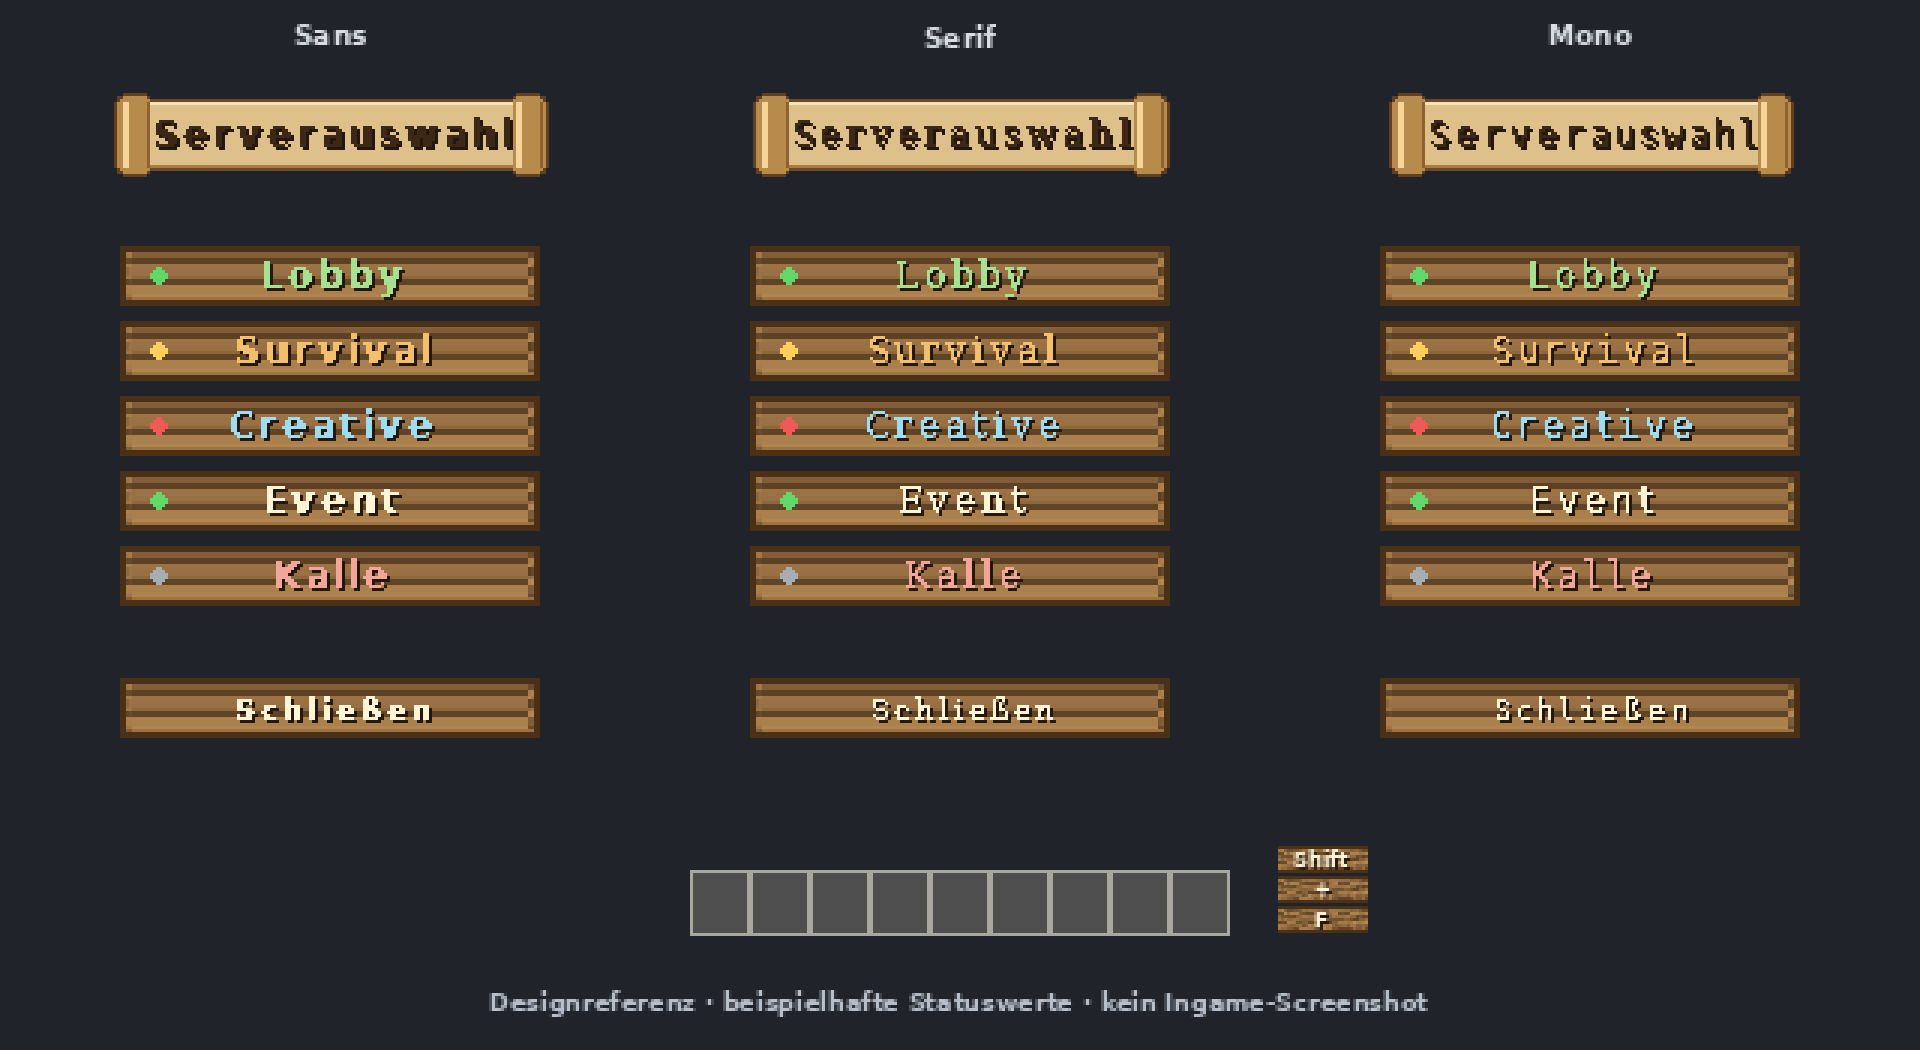
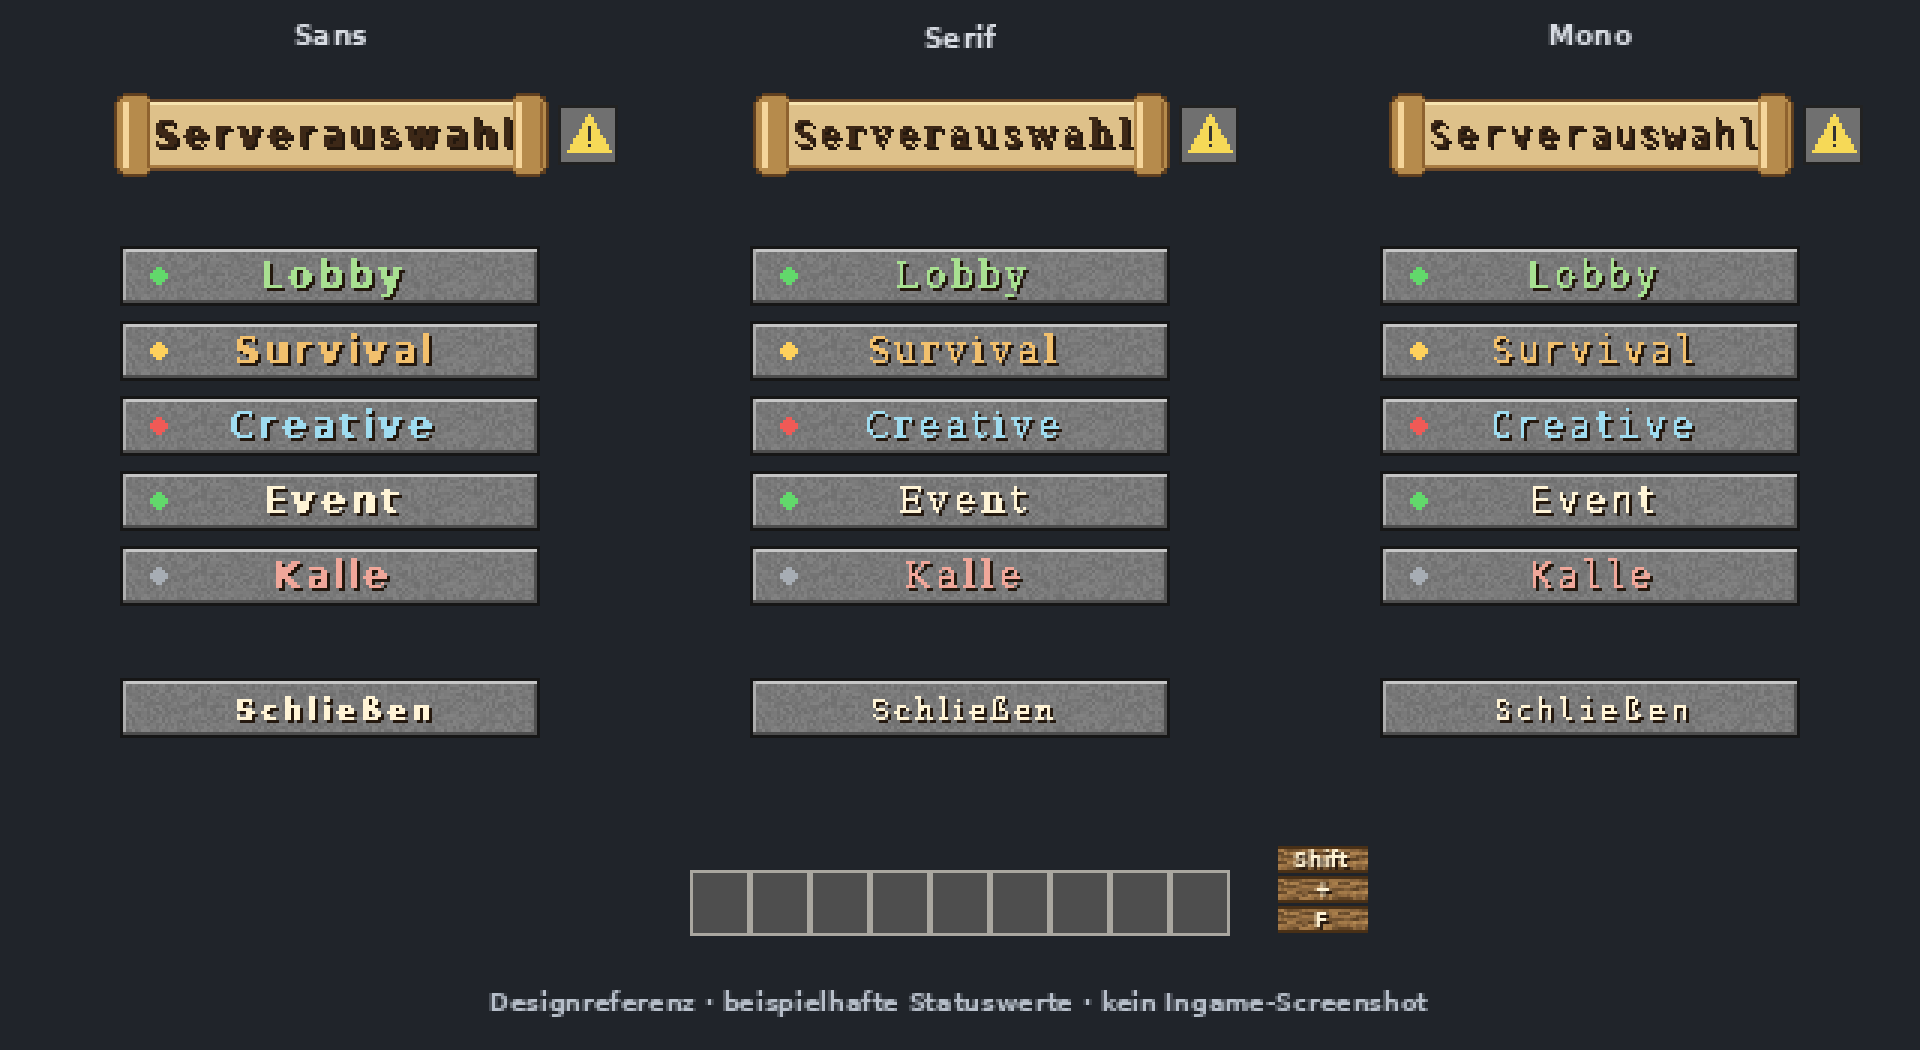
Validate callback hosts and test automatic ping bootstrap through live status reports

diff --git a/tools/render_preview.py b/tools/render_preview.py
@@ -2,6 +2,7 @@
 """Design reference using the pack's exact glyph advances; not an in-game screenshot."""
 from pathlib import Path
 from PIL import Image, ImageDraw, ImageFont, ImageChops
+import random
 
 ROOT=Path(__file__).resolve().parents[1]
 A=ROOT/'resource-pack/assets/serverhub'
@@ -33,18 +34,26 @@ def main():
         image.alpha_composite(middle.resize((width-left.width-right.width,middle.height)),(left.width,0));image.alpha_composite(right,(width-right.width,0))
         if tint!='#FFFFFF':image=ImageChops.multiply(image,Image.new('RGBA',image.size,tint))
         canvas.alpha_composite(image,(x,y))
-    canvas=Image.new('RGBA',(640,350),'#20242A');draw=ImageDraw.Draw(canvas)
+    def native_button(canvas,width,x,y):
+        image=Image.new('RGBA',(width,20),'#7D7D7D');d=ImageDraw.Draw(image);rng=random.Random(25)
+        for yy in range(1,19):
+            for xx in range(1,width-1):
+                value=rng.randrange(111,132);d.point((xx,yy),fill=(value,value,value,255))
+        d.rectangle((0,0,width-1,19),outline='#161616');d.line((1,1,width-2,1),fill='#C6C6C6');d.line((1,1,1,18),fill='#ACACAC');d.line((1,18,width-2,18),fill='#4D4D4D');d.line((width-2,2,width-2,18),fill='#505050')
+        canvas.alpha_composite(image,(x,y))
+    canvas=Image.new('RGBA' ,(640,350),'#20242A');draw=ImageDraw.Draw(canvas)
     caption=ImageFont.truetype(str(ROOT/'art-source/ServerHubSans-Bold.ttf'),9)
     for col,(family,title)in enumerate((('sans','Sans'),('serif','Serif'),('mono','Mono'))):
         center=110+210*col
         draw.text((center,8),title,font=caption,anchor='mt',fill='#D9DDE4')
         text='Serverauswahl';roll=max(48,measure(text,family,12)+24)
         background(canvas,'scroll',roll,center-roll//2,30);label(canvas,text,family,12,center,41,'#3D2817')
+        warning_x=center+roll//2+4;draw.rectangle((warning_x,35,warning_x+19,54),fill='#707070',outline='#222222');draw.polygon(((warning_x+10,38),(warning_x+3,50),(warning_x+17,50)),fill='#F6D957');draw.line((warning_x+10,42,warning_x+10,46),fill='#333333');draw.point((warning_x+10,48),fill='#333333')
         for i,(name,color,state)in enumerate([('Lobby','#A8E091','#62D86B'),('Survival','#F2C06D','#FFD15C'),('Creative','#9FDCF0','#F05A56'),('Event','#FFF4D6','#62D86B'),('Kalle','#F0A79A','#A7ADB4')]):
             x=center-70;y=82+i*25
-            background(canvas,'button',140,x,y);label(canvas,fit(name,family,12,100),family,12,center,y+6,color)
+            native_button(canvas,140,x,y);label(canvas,fit(name,family,12,100),family,12,center,y+6,color)
             draw.ellipse((x+10,y+7,x+15,y+12),fill=state)
-        background(canvas,'button',140,center-70,226);label(canvas,'Schließen',family,10,center,232,'#FFF4D6')
+        native_button(canvas,140,center-70,226);label(canvas,'Schließen',family,10,center,232,'#FFF4D6')
     # Schematic hotbar documents intended anchoring, not an actual client HUD.
     for col in range(9):
         x=230+col*20

diff --git a/velocity/src/test/java/de/serverhub/velocity/ProxyPackLifecycleTest.java b/velocity/src/test/java/de/serverhub/velocity/ProxyPackLifecycleTest.java
@@ -174,4 +174,21 @@ class ProxyPackLifecycleTest {
         var packet=Wire.decode(bytes.getAllValues().getLast());var snapshot=de.serverhub.common.MenuSnapshot.decode(packet.values());
         assertTrue(snapshot.options().flag("runtime.waiting"));assertEquals(de.serverhub.common.MenuSnapshot.Status.STARTING,snapshot.entries().getLast().status());
     }
+    @Test void aSleepingBackendWithoutPlayersPushesYellowWithoutAnotherHandshakeOrPackOffer()throws Exception{
+        setup("https://example.org/serverhub.zip");connect();status(packId,PlayerResourcePackStatusEvent.Status.SUCCESSFUL);var connection=backend();var lobby=connection.getServer();var target=registered("survival");
+        when(proxy.getAllServers()).thenReturn(List.of(lobby,target));when(proxy.getServer("survival")).thenReturn(Optional.of(target));catalog(connection);
+        var ping=ServerPing.builder().version(new ServerPing.Version(774,"Paper")).description(net.kyori.adventure.text.Component.text("Online")).build();
+        when(lobby.ping(any(PingOptions.class))).thenReturn(java.util.concurrent.CompletableFuture.completedFuture(ping));when(target.ping(any(PingOptions.class))).thenReturn(java.util.concurrent.CompletableFuture.completedFuture(ping));
+        when(proxy.getAllPlayers()).thenReturn(List.of(player));
+        var updates=new java.util.concurrent.LinkedBlockingQueue<de.serverhub.common.MenuSnapshot>();
+        doAnswer(call->{var packet=Wire.decode(call.getArgument(1,byte[].class));if(packet.type()==Wire.Type.MENU)updates.add(de.serverhub.common.MenuSnapshot.decode(packet.values()));return true;}).when(connection).sendPluginMessage(any(),any());
+        plugin.refreshStatuses();var options=ArgumentCaptor.forClass(PingOptions.class);verify(target).ping(options.capture());
+        var bootstrap=de.serverhub.common.BackendReportLink.fromVirtualHost(options.getValue().getVirtualHost()).orElseThrow();assertEquals("survival",bootstrap.target());
+        try(var reporter=new de.serverhub.common.BackendReporter(directory.resolve("backend-with-no-players"),message->{})){
+            reporter.sample(true);reporter.configure(bootstrap,"127.0.0.1");long end=System.nanoTime()+java.util.concurrent.TimeUnit.SECONDS.toNanos(5);boolean yellow=false;
+            while(System.nanoTime()<end&&!yellow){var snapshot=updates.poll(1,java.util.concurrent.TimeUnit.SECONDS);yellow=snapshot!=null&&snapshot.entries().stream().anyMatch(e->e.target().equals("survival")&&e.status()==de.serverhub.common.MenuSnapshot.Status.SLEEPING);}
+            assertTrue(yellow,"Backend report must update the visible snapshot even though the Minecraft ping stays green");
+        }
+        verify(player,times(1)).sendResourcePackOffer(any());
+    }
 }

diff --git a/velocity/src/main/java/de/serverhub/velocity/ServerHubVelocity.java b/velocity/src/main/java/de/serverhub/velocity/ServerHubVelocity.java
@@ -195,9 +195,10 @@ public final class ServerHubVelocity {
     private void pushMenus(){if(menus.current()!=null)for(Player player:proxy.getAllPlayers())sendMenu(player);}
     private void scheduleDiscovery(){
         if(discoveryTask!=null)discoveryTask.cancel();
-        discoveryTask=proxy.getScheduler().buildTask(this,()->{
+        discoveryTask=proxy.getScheduler().buildTask(this,this::refreshStatuses).delay(Duration.ofSeconds(1)).repeat(Duration.ofSeconds(menus.current().options().number("status.ping-interval-seconds"))).schedule();
+    }
+    void refreshStatuses(){
             try{
-                var registered=proxy.getAllServers();
                 refreshRegistered();
             }catch(IOException e){logger.warn("Neue Server konnten nicht in servers.yml ergänzt werden: {}",e.getMessage());}
             var menu=menus.current();
@@ -207,7 +208,6 @@ public final class ServerHubVelocity {
                 return server.ping(PingOptions.builder().virtualHost(receiver.link(server.getServerInfo().getName(),menu.options()).virtualHost()).timeout(Duration.ofMillis(menu.options().number("status.timeout-ms"))).build());
             });
             pushMenus();
-        }).delay(Duration.ofSeconds(1)).repeat(Duration.ofSeconds(menus.current().options().number("status.ping-interval-seconds"))).schedule();
     }
     void refreshRegistered()throws IOException {
         if(menus.discover(proxy.getAllServers().stream().map(s->s.getServerInfo().getName()).toList()))statusMonitor.configure(menus.current());

diff --git a/common/src/main/java/de/serverhub/common/BackendReportLink.java b/common/src/main/java/de/serverhub/common/BackendReportLink.java
@@ -13,6 +13,7 @@ public record BackendReportLink(String target,String host,int port,boolean https
     }
     public URI endpoint(String peerHost){return endpoint(host.equals("auto")?peerHost:host,port,https,target);}
     private static URI endpoint(String host,int port,boolean https,String target){
+        if(host==null||host.isBlank()||!host.matches("[A-Za-z0-9.:%\\[\\]-]+"))throw new IllegalArgumentException("Ungültiger Statushost");
         try {var uri=new URI(https?"https":"http",null,host,port,"/serverhub-status","target="+target,null);if(uri.getHost()==null)throw new IllegalArgumentException("Ungültiger Statushost");return uri;}
         catch(URISyntaxException e){throw new IllegalArgumentException("Ungültiger Statushost",e);}
     }
